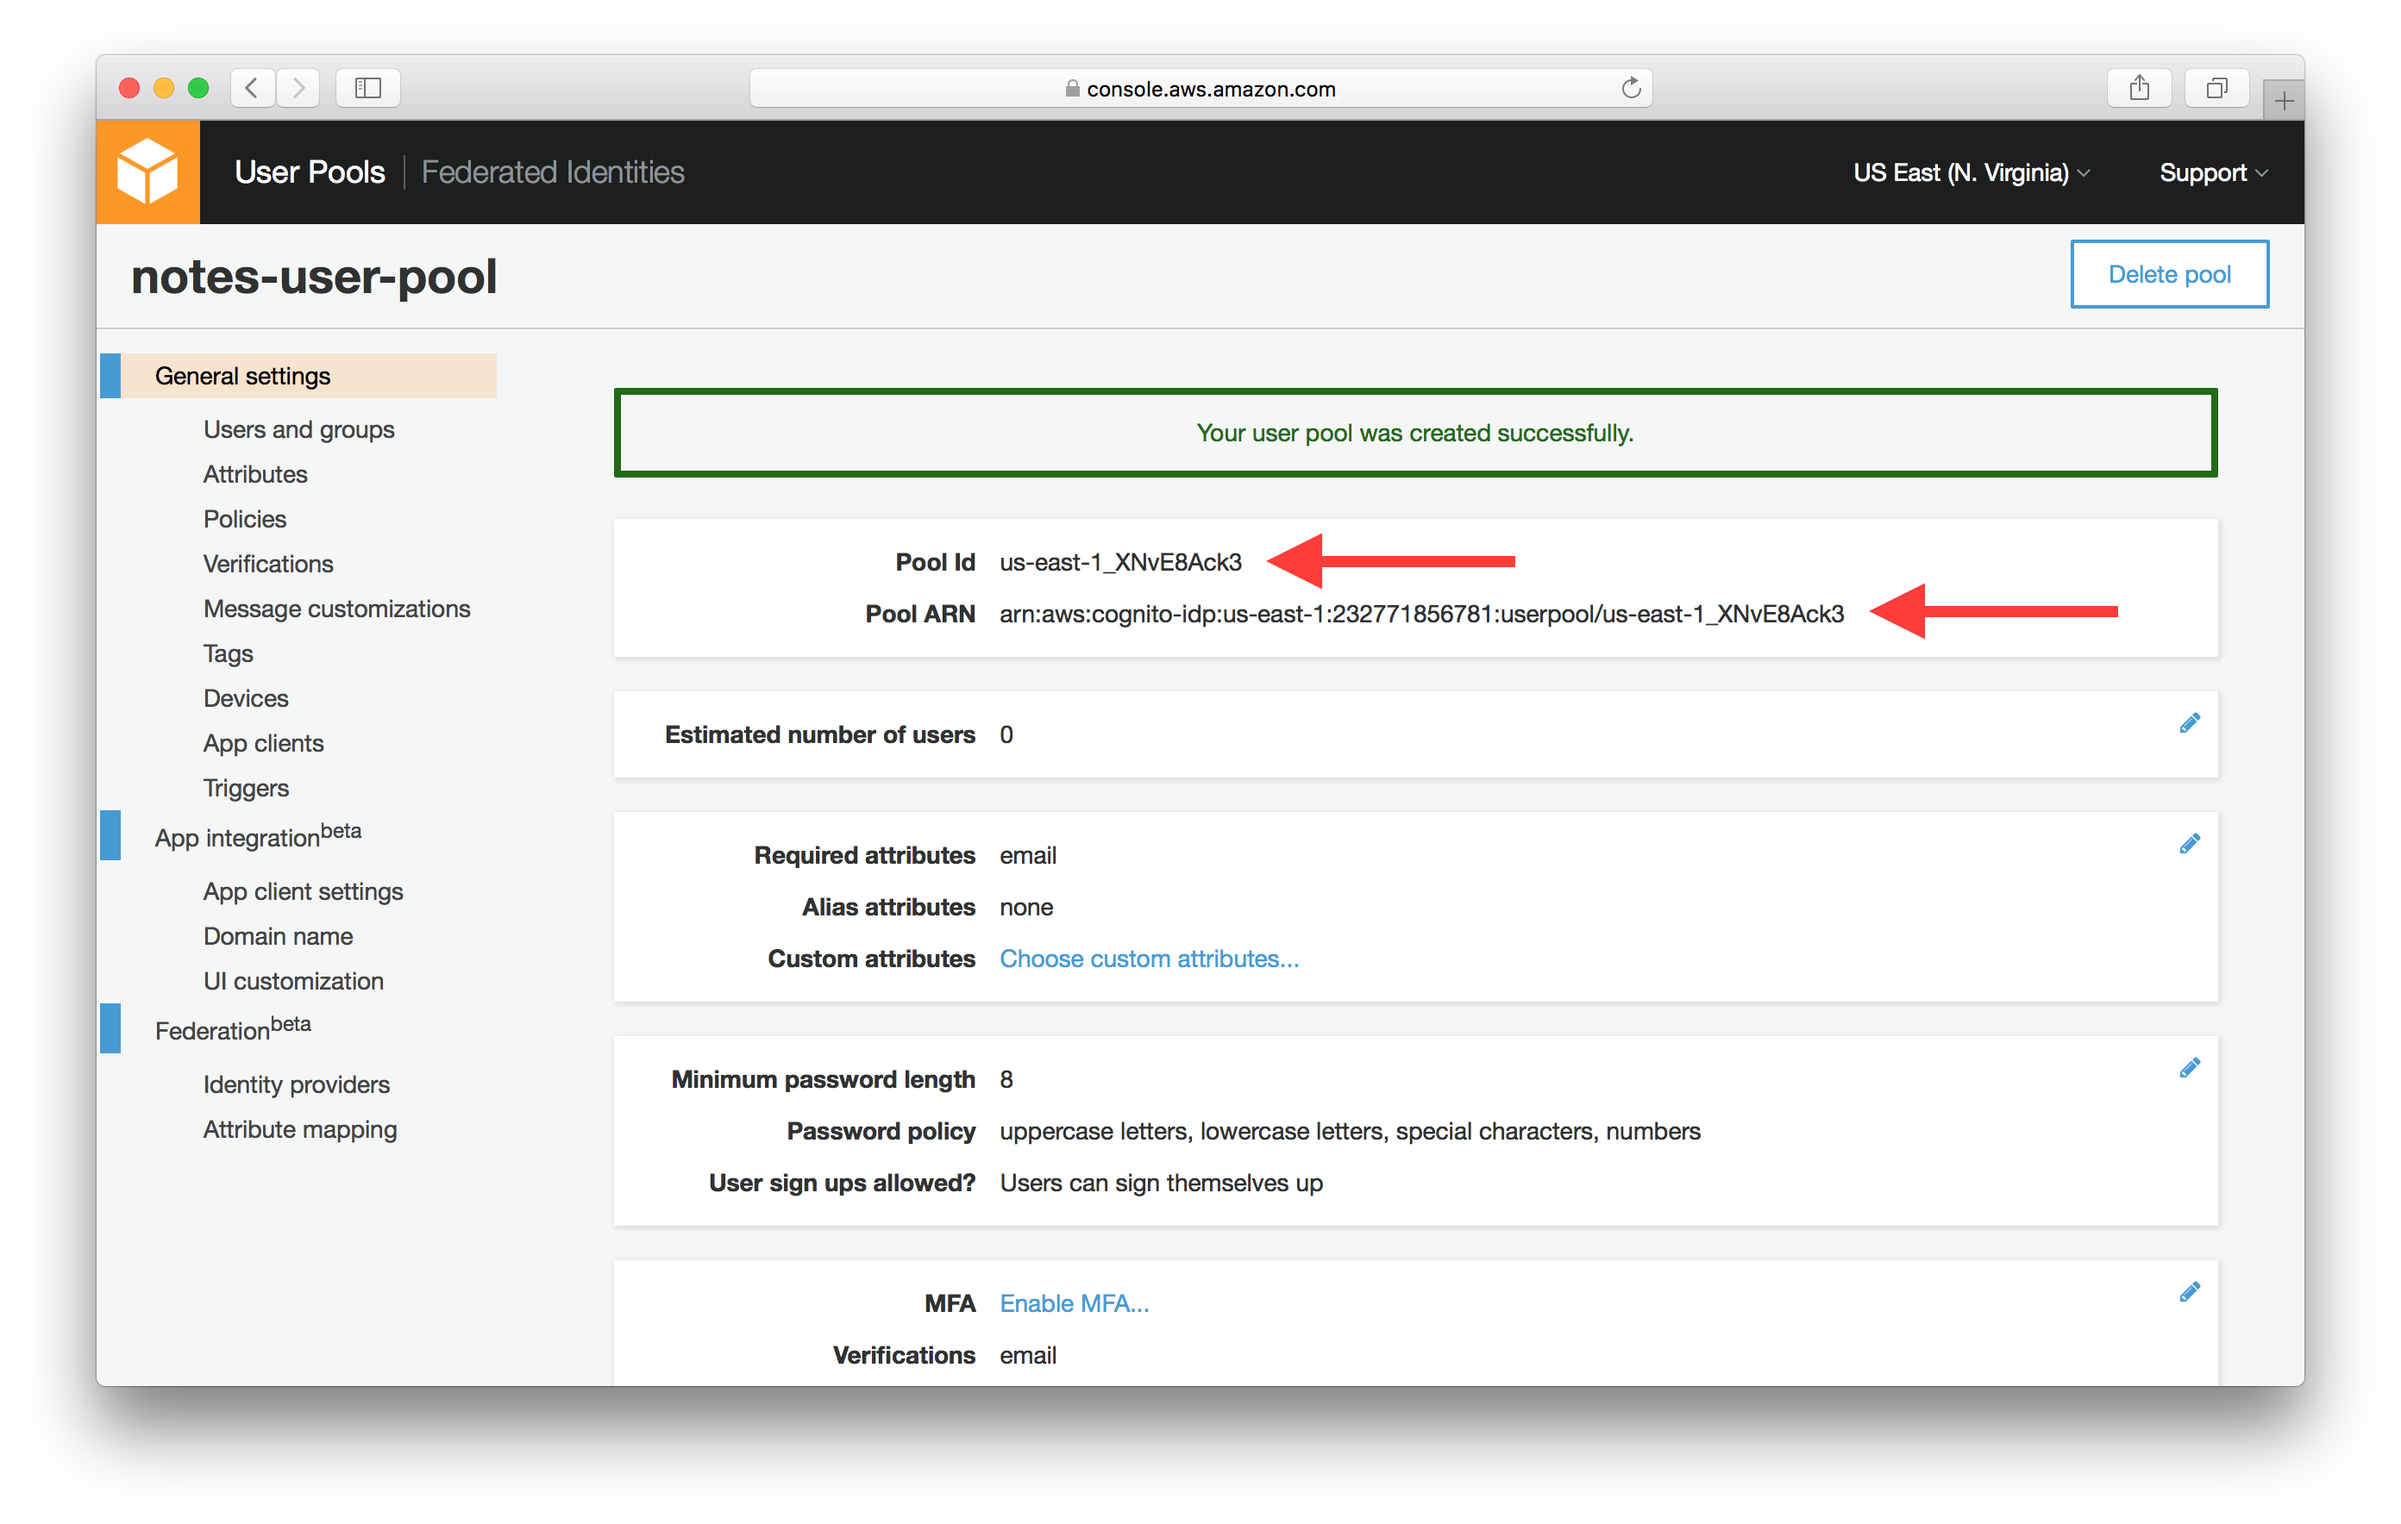
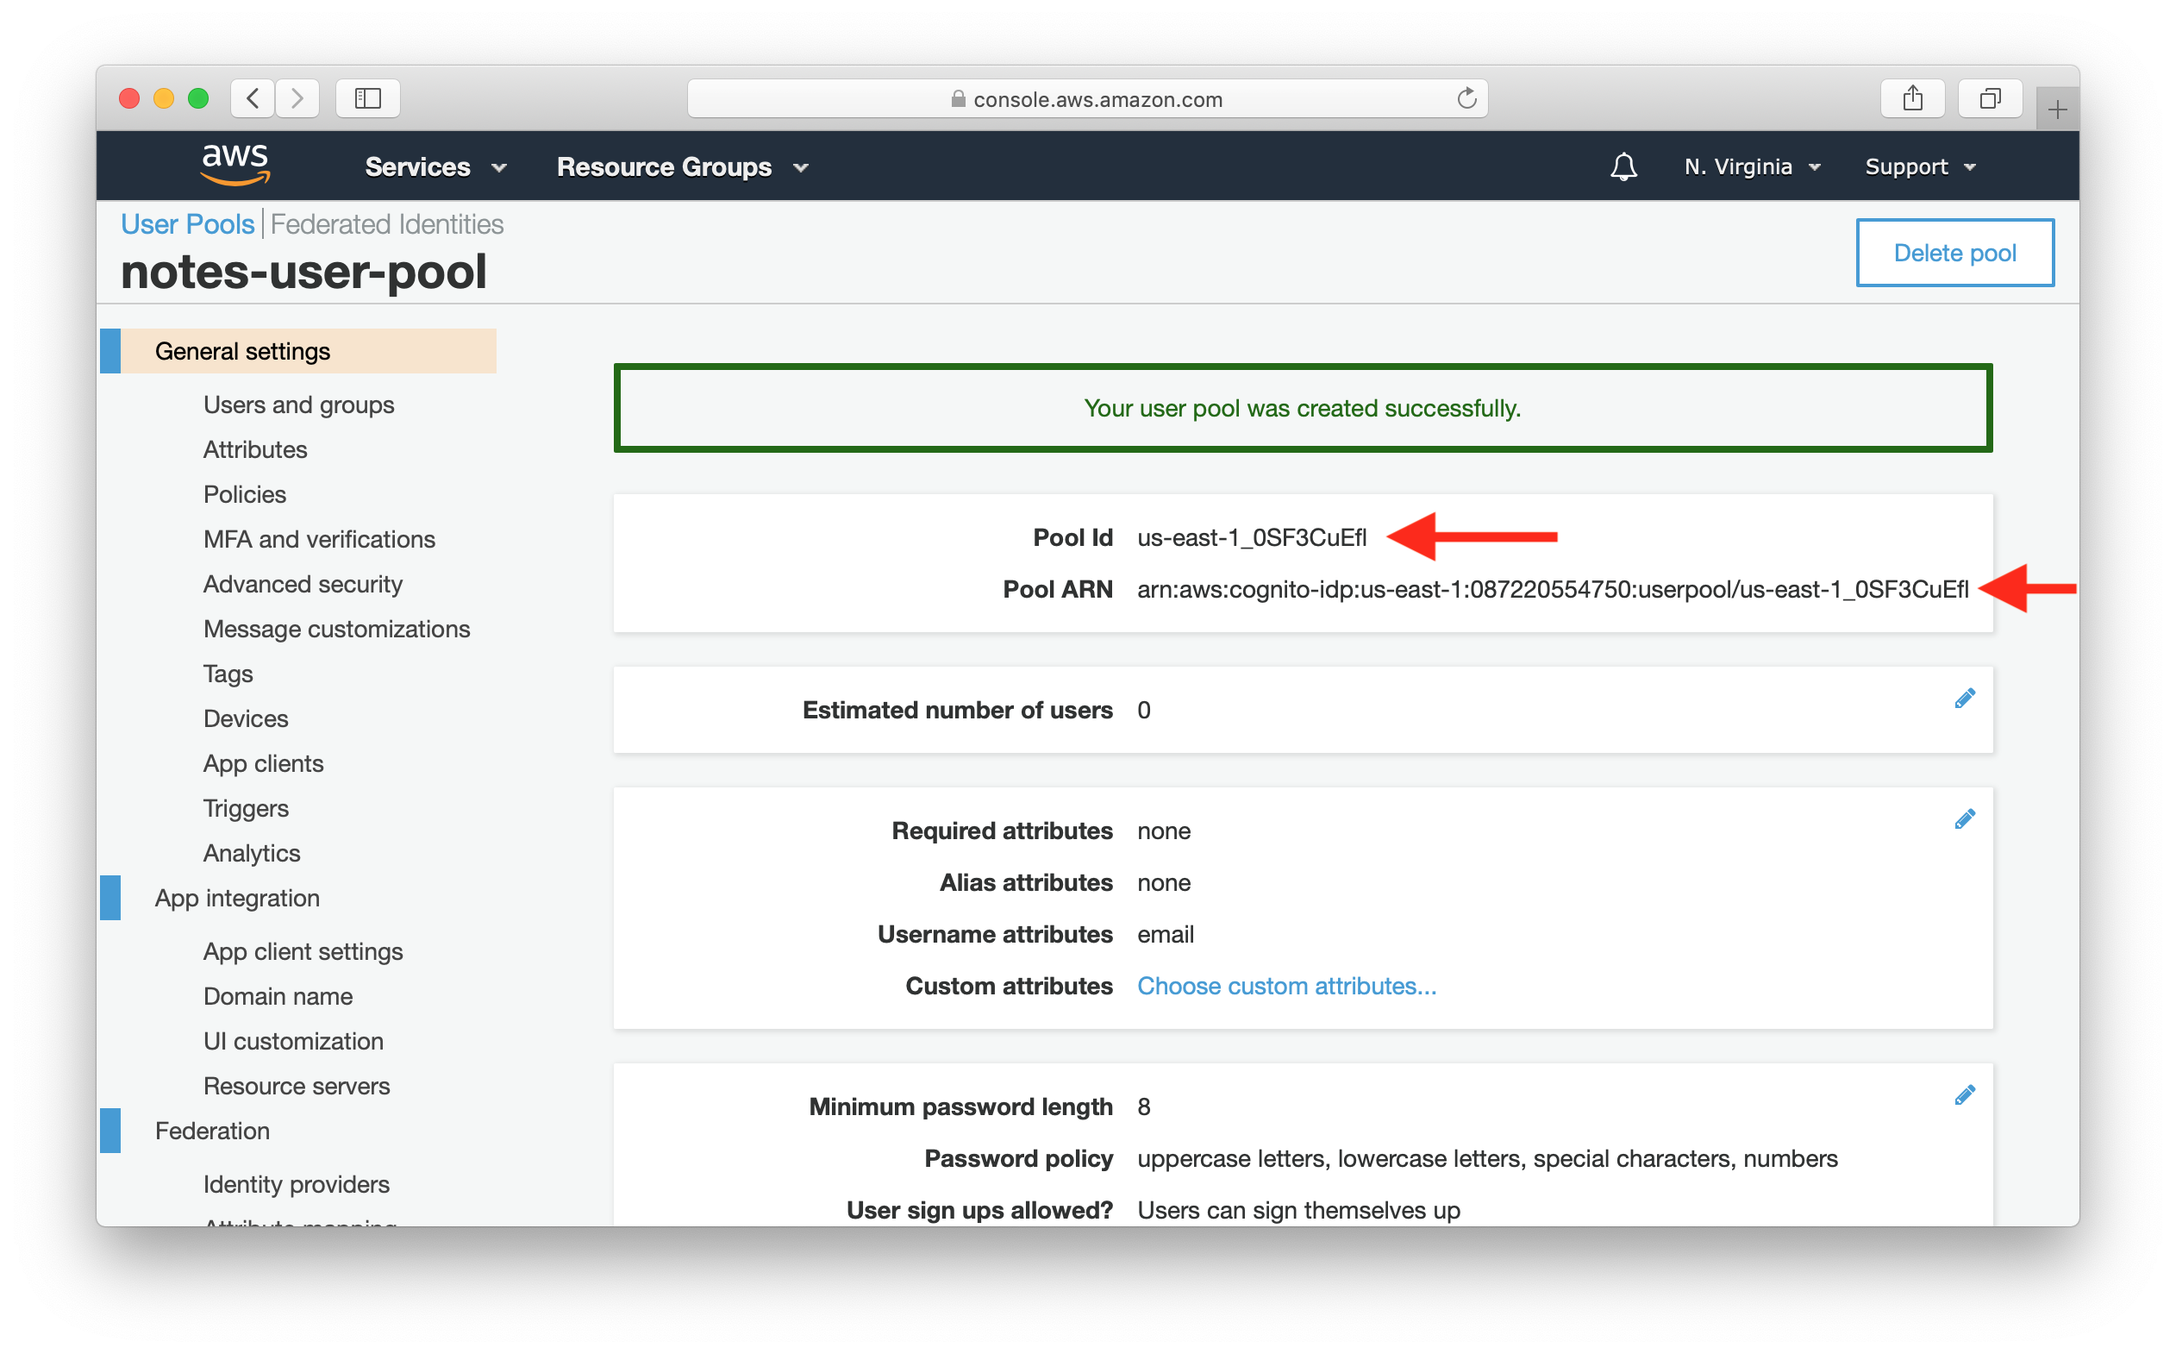
Updating user pool chapter with screenshots

Changed region(s): [[0.0309, 0.0312, 0.958, 0.9363], [0.8962, 0.4994, 0.9271, 0.5618]]

diff --git a/etc/cover.html b/etc/cover.html
@@ -65,7 +65,7 @@
     Serverless Stack is an <a href="https://github.com/AnomalyInnovations/serverless-stack-com">open source</a> guide for building full-stack production ready apps using Serverless and React on AWS. Create a <a href="https://demo2.serverless-stack.com">note taking app</a> from scratch using the Serverless Framework and Create React App. Follow our step-by-step tutorials with screenshots and code samples. And use our <a href="https://discourse.serverless-stack.com">forums</a> if you have any questions.
   </h1>
   <h4>IMPORTANT: In some versions of Adobe Reader, copying and pasting code from this PDF might miss some hyphen or dash characters. Please, double check the code you are copying.</h4>
-  <p>Feb 1, 2019 - v3.3.3</p>
+  <p>July 22, 2019 - v3.4</p>
 
 
   </body>

diff --git a/_chapters/create-a-cognito-user-pool.md b/_chapters/create-a-cognito-user-pool.md
@@ -53,6 +53,10 @@ Now hit **Create pool** at the bottom of the page.
 
 ![Select Create pool screenshot](/assets/cognito-user-pool/select-create-pool.png)
 
+If you get an error with a message, `1 validation error detected: Value '[]' at 'schema' failed to satisfy constraint: Member must have length greater than or equal to 1`; then scroll up and click on **Choose required attributes...**. And select **email** as a required attribute and try again.
+
+![Select email as required attribute screenshot](/assets/cognito-user-pool/select-email-as-required-attribute.png)
+
 Your User Pool has been created. Take a note of the **Pool Id** and **Pool ARN** which will be required later. Also, note the region that your User Pool is created in – in our case it's `us-east-1`.
 
 ![Cognito User Pool Created Screenshot](/assets/cognito-user-pool/user-pool-created.png)
